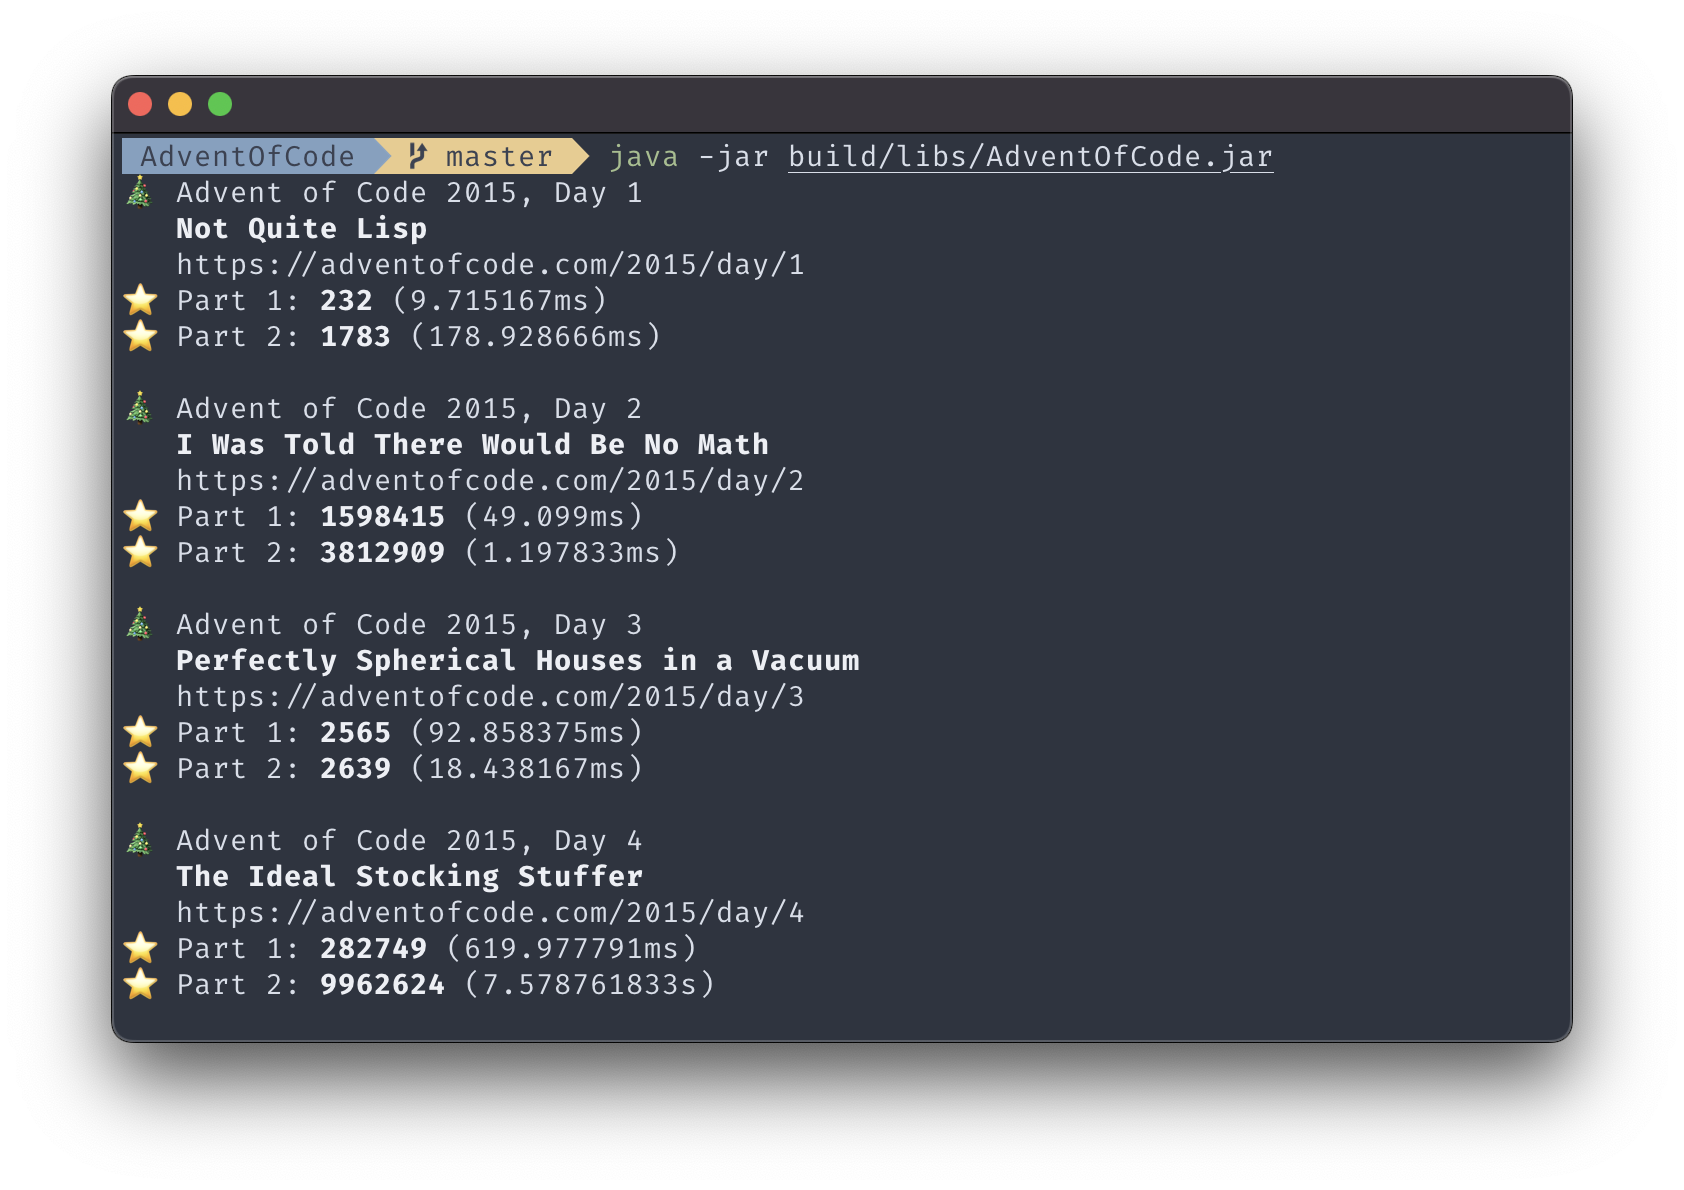
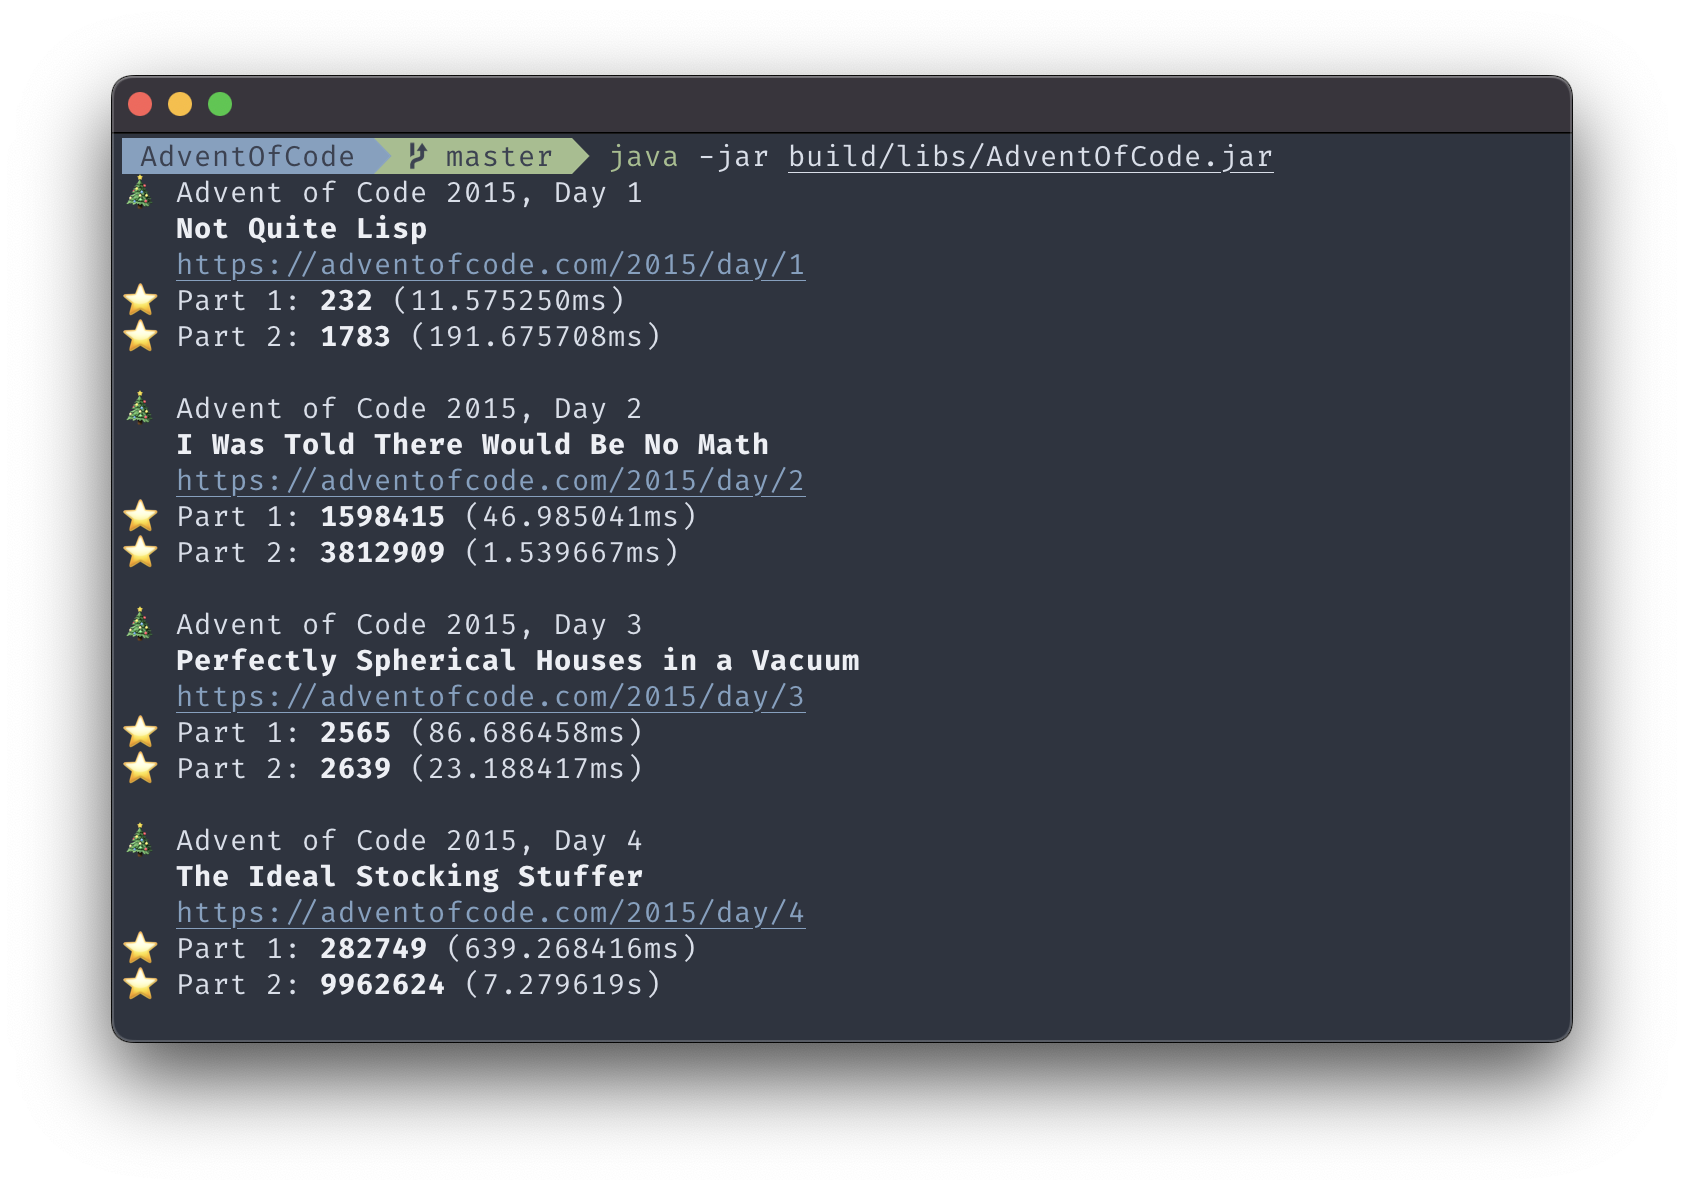
Highlight links in blue and underline

diff --git a/src/main/kotlin/adventofcode/util/ConsoleFormatter.kt b/src/main/kotlin/adventofcode/util/ConsoleFormatter.kt
@@ -1,9 +1,12 @@
 package adventofcode.util
 
 import com.diogonunes.jcolor.AnsiFormat
+import com.diogonunes.jcolor.Attribute.BLUE_TEXT
 import com.diogonunes.jcolor.Attribute.BOLD
 import com.diogonunes.jcolor.Attribute.RED_BACK
+import com.diogonunes.jcolor.Attribute.UNDERLINE
 import com.diogonunes.jcolor.Attribute.WHITE_TEXT
+import java.net.URL
 import kotlin.time.Duration
 import kotlin.time.Duration.Companion.seconds
 import kotlin.time.ExperimentalTime
@@ -21,3 +24,5 @@ fun Duration.formatBenchmark(): String = when {
 }
 
 fun String.bold(): String = AnsiFormat(BOLD()).format(this)
+
+fun URL.formatUrl(): String = AnsiFormat(BLUE_TEXT(), UNDERLINE()).format(this.toString())

diff --git a/src/main/kotlin/adventofcode/Puzzle.kt b/src/main/kotlin/adventofcode/Puzzle.kt
@@ -1,6 +1,7 @@
 package adventofcode
 
 import adventofcode.util.bold
+import adventofcode.util.formatUrl
 import adventofcode.util.formatBenchmark
 import java.io.FileNotFoundException
 import java.net.URL
@@ -57,7 +58,7 @@ abstract class Puzzle(customInput: PuzzleInput?) {
         """
         🎄 Advent of Code $year, Day $day
            ${name.bold()}
-           $link
+           ${link.formatUrl()}
         """.trimIndent().also(::println)
 
         measureTimedValue { partOne() }.let { (value, duration) ->
